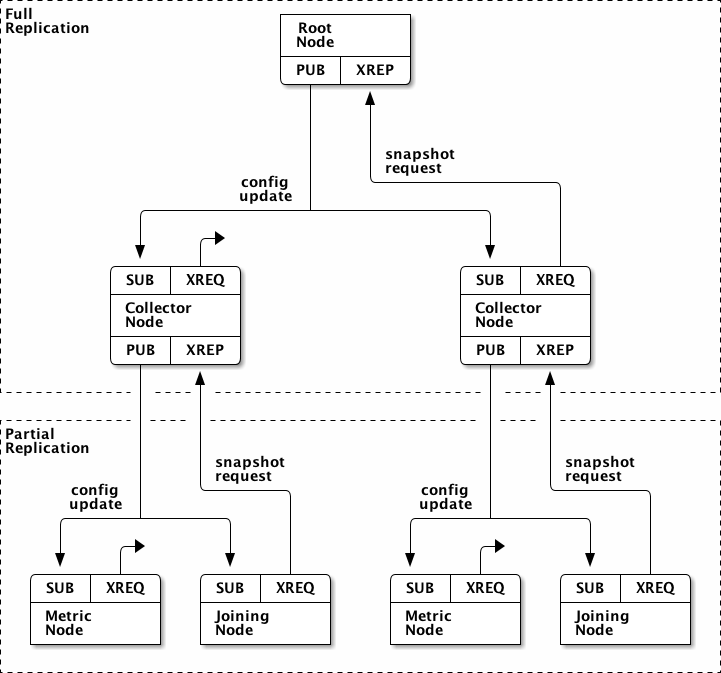
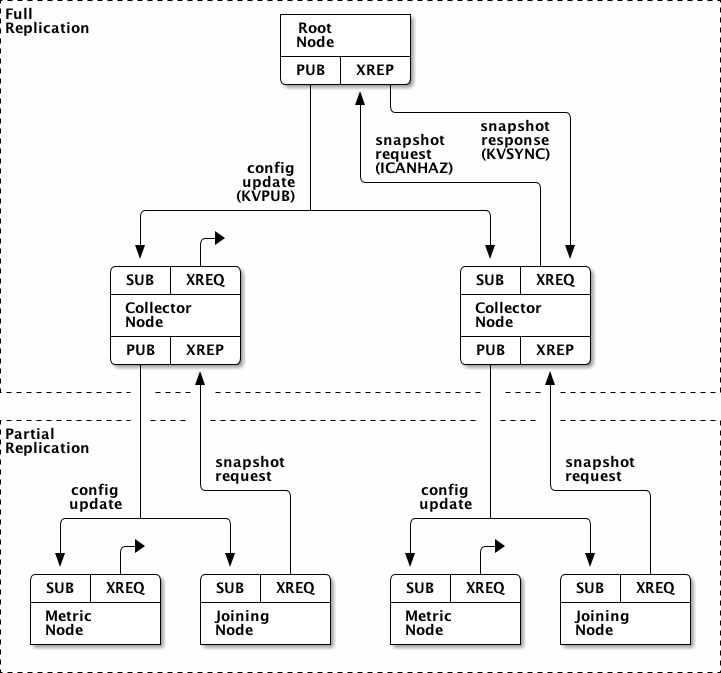
proto conf done

diff --git a/proto_conf.tex b/proto_conf.tex
@@ -1,31 +1,18 @@
 \subsection{Configuration Replication Protocol}
 \label{proto_config}
 
-The \dcamp configuration replication algorithm adheres to the Clustered Hashmap Protocol\cite{chp} with a few minor
-(and one major) modifications:
+\dcamp configuration and topology state are replicated across the system using key-value pairs, with the keys laid out
+in a hierarchical fashion. This lends itself nicely to PUB/SUB topic filtering.
 
-\begin{figure}[ht]
-    \centering
-    \includegraphics[scale=0.66]{config.png}
-    \caption{Configuration Protocol Diagram}
-    \label{fig:proto_config_image}
-\end{figure}
+For example, because a Metric node only needs the configuration values for its particular group, the node subscribes
+only to the \texttt{"/CONFIG/<group-name>/"} topic. Any \texttt{KVPUB} whose key does not start with this string is
+then discarded.
 
-\begin{enumerate}
-\item only the Root node may write new configuration changes,
-\item the full configuration table will be replicated across all first-level Collector nodes (lower-level nodes may
-      filter their configuration to only store relevant data),
-\item a different set of command names are used (as described below), and
-\item configuration updates are distributed via the \dcamp hierarchy (instead of directly from the Root node).
-\end{enumerate}
+In practice, Metric nodes need more than just their group-specific configuration, but the general principle holds true:
+nodes only receive the configuration data they require and nothing more. In the case of first-level Collector nodes, they
+receive all updates since they are fail-over candidates for the root node.
 
-A newly assigned first-level Collector node will first subscribe to new configuration updates from the Root node and
-then send a configuration snapshot request to the Root node. A newly assigned Sensor (or non-first-level Collector) node
-will first subscribe to new configuration updates from its parent Collector node, and then send its parent Collector
-node a filtered configuration snapshot request. Once its snapshot has been successfully received, a node will process
-any pending configuration updates and then, in the case of a Collector node, respond to child node snapshot requests.
-
-\begin{figure}[ht]
+\begin{figure}[H]
 \vspace{+10pt}
 \begin{verbatim}
 config-replication = *update / snap-sync
@@ -39,25 +26,67 @@ snap-sync          = C-ICANHAZ ( ( *P-KVSYNC P-KTHXBAI ) / P-WTF )
 \label{fig:proto_config_spec}
 \end{figure}
 
+A newly assigned first-level Collector node will first subscribe to new configuration updates from the Root node and
+then send a configuration snapshot request to the Root node. A newly assigned Sensor (or non-first-level Collector) node
+will first subscribe to new configuration updates from its parent Collector node, and then send its parent Collector
+node a filtered configuration snapshot request. Once its snapshot has been successfully received, a node will process
+any pending configuration updates and then, in the case of a Collector node, respond to child node snapshot requests.
+
+The \dcamp configuration replication algorithm adheres to the Clustered Hashmap Protocol\cite{chp} with a few minor
+(and one major) modifications:
+
+\begin{enumerate}
+\item only the Root node may write new configuration changes,
+\item the full configuration table will be replicated across all first-level Collector nodes (lower-level nodes may
+      filter their configuration to only store relevant data),
+\item a different set of command names are used (as described below), and
+\item configuration updates are distributed via the \dcamp hierarchy (instead of directly from the Root node).
+\end{enumerate}
+
+\begin{figure}[ht]
+    \centering
+    \includegraphics[scale=0.66]{config.png}
+    \caption{Configuration Protocol Diagram}
+    \label{fig:proto_config_image}
+\end{figure}
+
 \subsubsection{Message Definitions}
 
-These messages come from the CHP protocol. Additionally, a WTF error message may be sent by the parent in case of error.
-It should be noted, each of the following messages is really the same five-frame format with varying keys and semantics.
+These messages come from the CHP protocol. Additionally, a \texttt{WTF} error message may be sent by the parent in case
+of error. It should be noted, each of the following messages is really the same five-frame format with varying keys and
+semantics.
 
-\textbf{ICANHAZ} \\
-configuration snapshot request
+As shown in Figure \ref{fig:proto_config_spec}, the \texttt{ICANHAZ}, \texttt{KVSYNC}, and \texttt{KTHXBAI} messages are
+sent across a REQ/REP connection type. \texttt{KVPUB} (as the name would imply) along with the \texttt{HUGZ} heartbeat
+message are designed for the PUB/SUB pattern.
 
+\textbf{\texttt{ICANHAZ}} is a configuration snapshot request sent by the child node when it first starts. Multiple
+\texttt{ICANHAZ} requests can be sent for the different topics or subtrees needed by the node, and the node will not
+begin normal operation until all of the requested values have been received.
+
+\begin{figure}[H]
+\vspace{+10pt}
 \begin{verbatim}
-Frame 0: "ICANHAZ"
-Frame 1: sequence number, 8 bytes in network order
+Frame 0: "ICANHAZ", as 0MQ string
+Frame 1: <empty>
 Frame 2: <empty>
 Frame 3: <empty>
-Frame 4: subtree specification
+Frame 4: subtree specification, as 0MQ string
 \end{verbatim}
+\vspace{-20pt}
+\caption{\texttt{ICANHAZ} Message Definition}
+\label{fig:message_icanhaz}
+\end{figure}
 
-\textbf{KVSYNC} \\
-snapshot sync message
+\textbf{\texttt{KVSYNC}} is a configuration snapshot response message. For every key-value pair within the requested
+subtree, a \texttt{KVSYNC} message is sent to the child node. Note: if no values exist for a requested subtree, a
+\texttt{KTHXBAI} message will be the only response received by the child node.
 
+The sequence number in Frame 1 SHOULD be ignored by the recipient since no order guarantees exist for configuration
+snapshots requests.
+
+\begin{figure}[H]
+\vspace{+10pt}
 \begin{verbatim}
 Frame 0: key, as 0MQ string
 Frame 1: sequence number, 8 bytes in network order
@@ -65,34 +94,55 @@ Frame 2: <empty>
 Frame 3: <empty>
 Frame 4: value, as blob
 \end{verbatim}
+\vspace{-20pt}
+\caption{\texttt{KVSYNC} Message Definition}
+\label{fig:message_kvsync}
+\end{figure}
 
-\textbf{KTHXBAI} \\
-end of successful snapshot sync
+\textbf{\texttt{KTHXBAI}} marks the end of a successful snapshot request. Frame 4 MUST contain the highest sequence
+number of all the values in the configuration snapshot.
 
+\begin{figure}[H]
+\vspace{+10pt}
 \begin{verbatim}
-Frame 0: "KTHXBAI"
+Frame 0: "KTHXBAI", as 0MQ string
 Frame 1: sequence number, 8 bytes in network order
 Frame 2: <empty>
 Frame 3: <empty>
-Frame 4: subtree specification
+Frame 4: subtree specification, as 0MQ string
 \end{verbatim}
+\vspace{-20pt}
+\caption{\texttt{KTHXBAI} Message Definition}
+\label{fig:message_kthxbai}
+\end{figure}
 
-\textbf{KVPUB} \\
-configuration update sent from parent to child
+\textbf{\texttt{KVPUB}} is a configuration update sent from parent to child. The sequence number in Frame 1 must be
+monotonically increasing. When a \texttt{KVPUB} is received which has a sequence number lower than a previously received
+\texttt{KVPUB}, the node MUST delete its saved configuration values and request a new snapshot.
 
+Frame 2 SHOULD contain the UUID of the node from which the value originated. In \dcamp, this should only be the Root
+node's UUID. Frame 3 MAY contain additional properties for the key-value pair, such as an ephemeral time-to-live.
+
+\begin{figure}[H]
+\vspace{+10pt}
 \begin{verbatim}
 Frame 0: key, as 0MQ string
 Frame 1: sequence number, 8 bytes in network order
 Frame 2: UUID, 16 bytes in network order
 Frame 3: properties, JSON-encoded, as 0MQ string
 Frame 4: value, as blob
-
-properties = ...
 \end{verbatim}
+\vspace{-20pt}
+\caption{\texttt{KVPUB} Message Definition}
+\label{fig:message_kvpub}
+\end{figure}
 
-\textbf{HUGZ} \\
-heartbeat message sent from parent to child (when no config updates)
+\textbf{\texttt{HUGZ}} is the heartbeat message sent from parent to child when the rate of \texttt{KVPUB} messages being
+sent drops below a predetermined threshold. The \texttt{HUGZ} message is critical to maintaining topological consistency
+in \dcamp.
 
+\begin{figure}[H]
+\vspace{+10pt}
 \begin{verbatim}
 Frame 0: "HUGZ"
 Frame 1: 00000000
@@ -100,3 +150,7 @@ Frame 2: <empty>
 Frame 3: <empty>
 Frame 4: <empty>
 \end{verbatim}
+\vspace{-20pt}
+\caption{\texttt{HUGZ} Message Definition}
+\label{fig:message_hugz}
+\end{figure}

diff --git a/proto_topo.tex b/proto_topo.tex
@@ -4,7 +4,7 @@
 The \dcamp distributed topology is dynamically established as the Root node sends out its discovery message and receives
 join messages from Base nodes. Once a Base node responds to the Root, the Base node is given its assignment.
 
-\begin{figure}[ht]
+\begin{figure}[H]
 \vspace{+10pt}
 \begin{verbatim}
 topo-discovery = *discover join
@@ -27,13 +27,13 @@ join           = B-POLO ( R-ASSIGN / R-WTF )
 
 \subsubsection{Message Definitions}
 
-\textbf{TOPO} is a generic topology message consisting of four frames. This message type is designed to be sent across a
-PUB/SUB connection, from which subscribers filter incoming messages using the first frame. This design proves useful for
-the \hyperref[proto_reco]{Recovery Protocol}.
+\textbf{\texttt{TOPO}} is a generic topology message consisting of four frames. This message type is designed to be sent
+across a PUB/SUB connection, from which subscribers filter incoming messages using the first frame. This design proves
+useful for the \hyperref[proto_reco]{Recovery Protocol}.
 
 The \texttt{MARCO} message is simply shorthand for \texttt{TOPO(key="/MARCO")}.
 
-\begin{figure}[ht]
+\begin{figure}[H]
 \vspace{+10pt}
 \begin{verbatim}
 Frame 0: key, as 0MQ string
@@ -46,14 +46,14 @@ Frame 3: <empty> or content, as 0MQ string
 \label{fig:message_topo}
 \end{figure}
 
-\textbf{CONTROL} is a generic control message consisting of four frames and designed to be sent across a REQ/REP
-connection. The \texttt{POLO} and \texttt{ASSIGN} messages are shorthand for \texttt{CONTROL(command="POLO")} and
-\texttt{CONTROL(command="ASSIGN")} respectively.
+\textbf{\texttt{CONTROL}} is a generic control message consisting of four frames and designed to be sent across a
+REQ/REP connection. The \texttt{POLO} and \texttt{ASSIGN} messages are shorthand for \texttt{CONTROL(command="POLO")}
+and \texttt{CONTROL(command="ASSIGN")} respectively.
 
 In the case of \texttt{ASSIGN}, the third frame contains the specific topology instructions (level-one collector, leaf
 node, etc.) being sent to the Base node.
 
-\begin{figure}[ht]
+\begin{figure}[H]
 \vspace{+10pt}
 \begin{verbatim}
 Frame 0: command, as 0MQ string
@@ -72,10 +72,10 @@ group       = "group=" <group-identity>
 \label{fig:message_control}
 \end{figure}
 
-\textbf{WTF} is \dcamp's error message type. It has three frames (though frame 2 may be empty) with the first designed
-to make error detection simple.
+\textbf{\texttt{WTF}} is \dcamp's error message type. It has three frames (though Frame 2 may be empty) with the first
+designed to make error detection simple.
 
-\begin{figure}[ht]
+\begin{figure}[H]
 \vspace{+10pt}
 \begin{verbatim}
 Frame 0: "WTF", as 0MQ string
